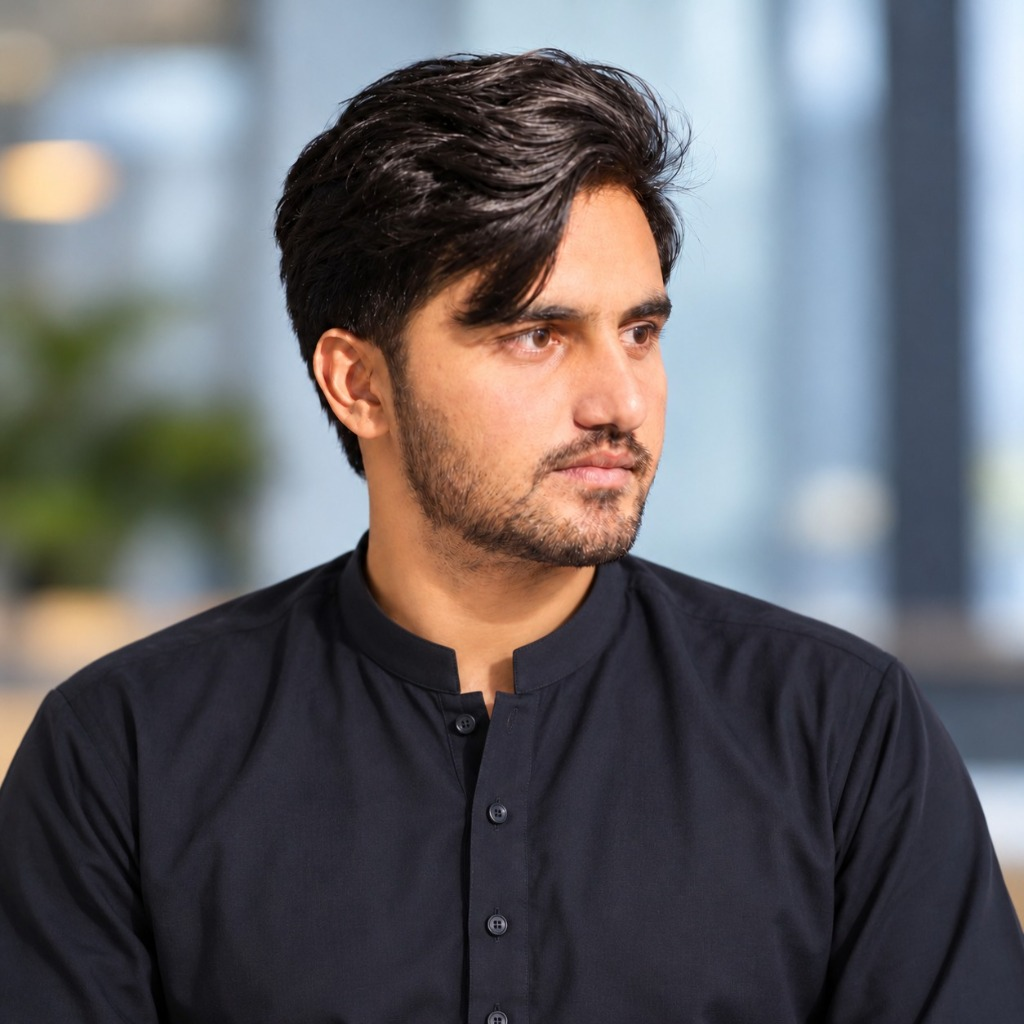
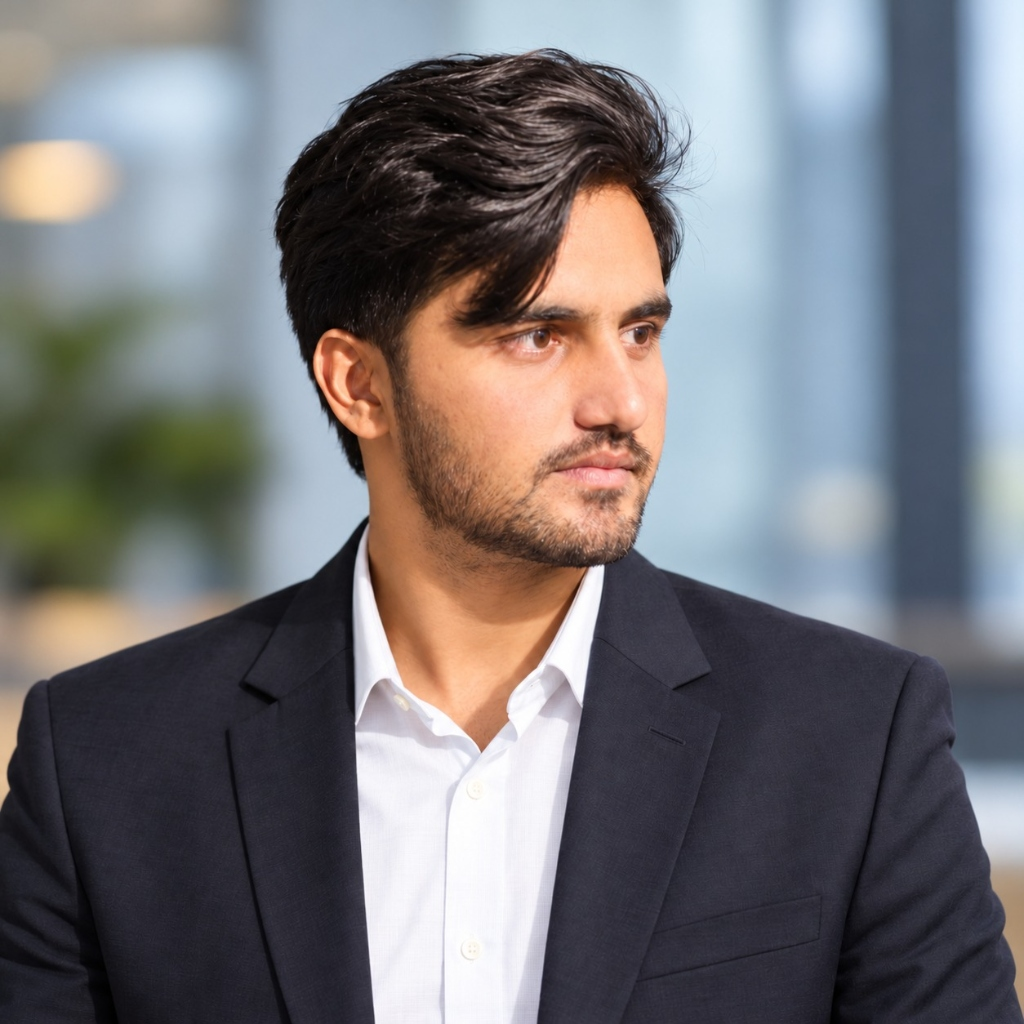
Update profile image with high-resolution photo

diff --git a/src/data/personal.ts b/src/data/personal.ts
@@ -30,7 +30,7 @@ export const personalInfo = {
     'Bug Reporting',
     'Regression Testing',
   ],
-  tools: ['Postman', 'Swagger', 'JIRA', 'ClickUp'],
+  tools: ['Postman', 'JIRA', 'ClickUp'],
   highlights: [
     'Web Testing',
     'Mobile (Android) Testing',
@@ -46,6 +46,6 @@ export const personalInfo = {
   linkedin: 'https://www.linkedin.com/in/talha-usman-usman/',
   github: 'https://github.com/Usmantha123',
   resumeUrl: '/resume.html',
-  photoUrl: '/profile.jpg',
+  photoUrl: '/profile.jpg?v=2',
   yearsOfExperience: '2+',
 };
